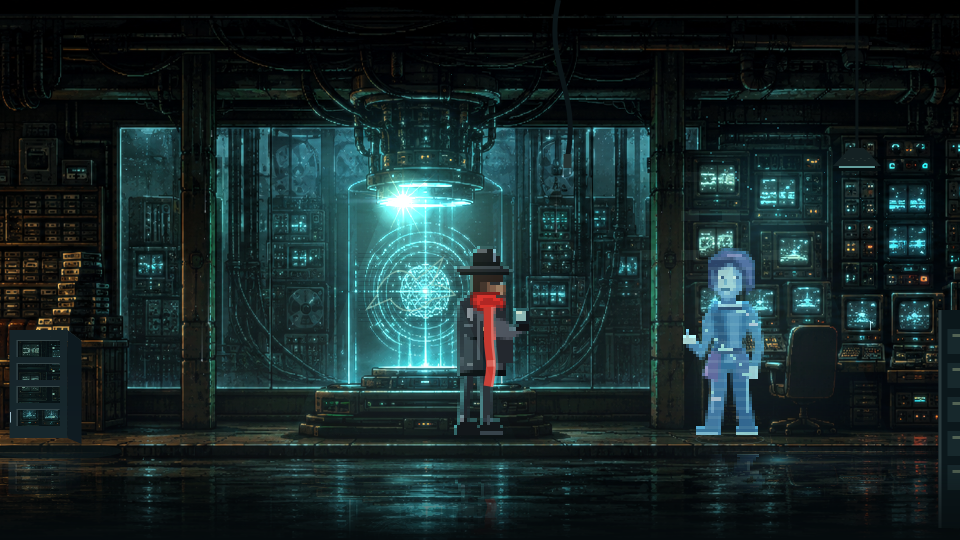
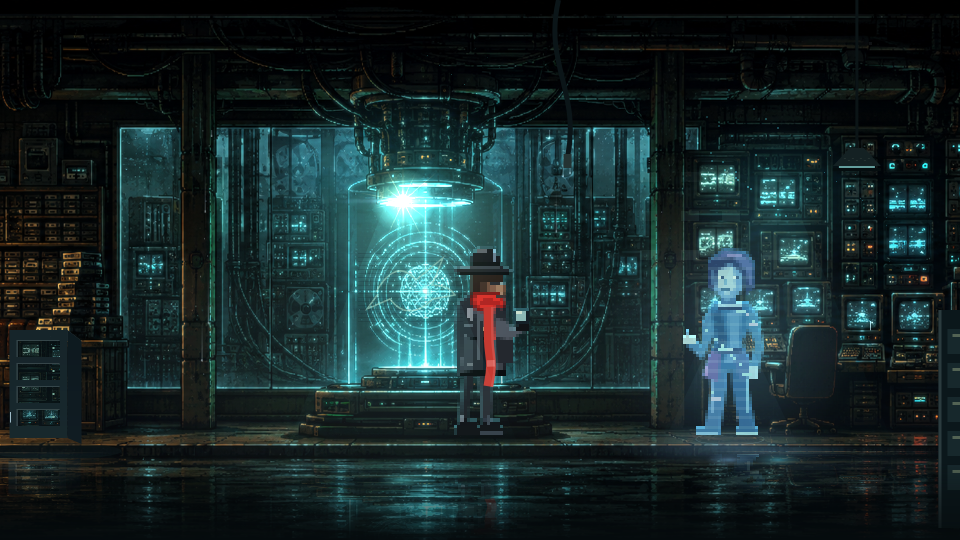
Let Lyra illuminate nearby characters and surfaces

diff --git a/src/renderer.ts b/src/renderer.ts
@@ -162,10 +162,21 @@ export class Renderer {
       for (const strength of this.traffic.step(v.dt, W)) this.cue?.('traffic', strength);
     const movingLights =
       area === 'street' && !v.combat && !v.reducedMotion ? this.traffic.headlights(cam) : [];
+    const lyraX =
+      area === 'den'
+        ? 1150
+        : area === 'street' && v.model.deduced && !v.model.save.companion
+          ? 1280
+          : null;
+    const lyraLight: SignLight | null =
+      !v.combat && lyraX !== null
+        ? { x: lyraX, y: world.ground - 36 * figure, color: '#83c9ff', intensity: 1.3 }
+        : null;
+    const sceneLights = lyraLight ? [...world.lights, lyraLight] : world.lights;
     const actorLights =
       !v.combat && area === 'street'
-        ? [...world.lights, ...movingLights, { x: 1008, y: 386, color: '#ecc18a', intensity: 0.75 }]
-        : world.lights;
+        ? [...sceneLights, ...movingLights, { x: 1008, y: 386, color: '#ecc18a', intensity: 0.75 }]
+        : sceneLights;
     // The neon falling on Cole drives his wet rim and the scarf's edge glow.
     const rim = rimAt(actorLights, v.player.x, v.player.y - 40 * figure, v.player.facing, t);
     if (this.lastArea !== area) {
@@ -244,6 +255,21 @@ export class Renderer {
     }
     c.globalCompositeOperation = 'source-over';
     c.globalAlpha = 1;
+    if (lyraLight) {
+      // Broad reflected light on the room and a flattened pool on the floor.
+      // The captured live scene carries both into the water reflection.
+      let glow = this.halos.get(lyraLight.color);
+      if (!glow) this.halos.set(lyraLight.color, (glow = this.radial(lyraLight.color, 128)));
+      const x = lyraLight.x - cam;
+      const radius = 48 + 28 * figure;
+      c.save();
+      c.globalCompositeOperation = 'screen';
+      c.globalAlpha = 0.16;
+      c.drawImage(glow, x - radius, lyraLight.y - radius, radius * 2, radius * 2);
+      c.globalAlpha = 0.25;
+      c.drawImage(glow, x - radius, world.ground - 13, radius * 2, 42);
+      c.restore();
+    }
     if (!v.combat) {
       drawPassingLight(c, cam, movingLights);
       if (area === 'street' && !v.reducedMotion) drawWindowLife(c, cam, t);
@@ -388,7 +414,7 @@ export class Renderer {
     // them. They sit below the interior floor line, so nothing they draw can
     // cover the figure casting the reflection.
     if (world.water?.puddles && area !== 'street')
-      drawPuddles(c, cam, t, world.water.puddles, world.lights);
+      drawPuddles(c, cam, t, world.water.puddles, sceneLights);
     if (area === 'street') this.drawReflections(c, cam, t, !v.combat);
     if (!v.combat) this.footWater.draw(c, cam);
     if (v.scan && !v.title) {
@@ -405,7 +431,7 @@ export class Renderer {
       c.fillRect(sx - 65, 0, 65, H);
     }
     if (area === 'street') this.weather(c, t, cam, v.reducedMotion);
-    else this.interiorAir(c, cam, t, world.lights);
+    else this.interiorAir(c, cam, t, sceneLights);
     const water = world.water;
     if (water && area !== 'street') {
       if (water.openings) drawOpenings(c, cam, t, water.openings);
@@ -416,7 +442,7 @@ export class Renderer {
       }
     }
     if (area === 'street') {
-      this.traffic.draw(c, cam, world.lights, t);
+      this.traffic.draw(c, cam, sceneLights, t);
     }
     // Near-camera architecture moves faster than the street, making depth legible.
     if (area === 'street') {

diff --git a/docs/QA.md b/docs/QA.md
@@ -236,3 +236,7 @@ Browser access restored through the Chrome extension. Verified the current devel
 Replaced Lyra's hooded exploration silhouette with an original blue-violet holographic avatar inspired by the requested Cortana direction: cropped hair, uncovered face, a structured high-collar suit, memory traces, and an open-hand listening pose. Added a faint projection footprint and a blue signal accent in her notebook dialogue. Story, voice text, clue gates, and combat remain unchanged. No Halo assets were imported.
 
 Inspected the actual renderer's Den capture with Cole and Lyra together and regenerated the character study. All 38 tests, formatting, and the Pages production build pass. This verification used renderer captures, not a live playthrough to Lyra's gated encounter.
+
+## Lyra light emission
+
+Lyra now supplies a scene light only when her avatar is present outside combat. Its blue contribution reaches Cole's existing cloth/rim-light and shadow-direction calculations, nearby interior dust, and puddle highlights. Soft screen-blended wall/floor spill is captured by live reflections. The light stays steady with reduced motion and does not alter the baked sign-sheen exposure. Verified the Den renderer capture; all 38 tests, formatting, and the Pages build pass.
